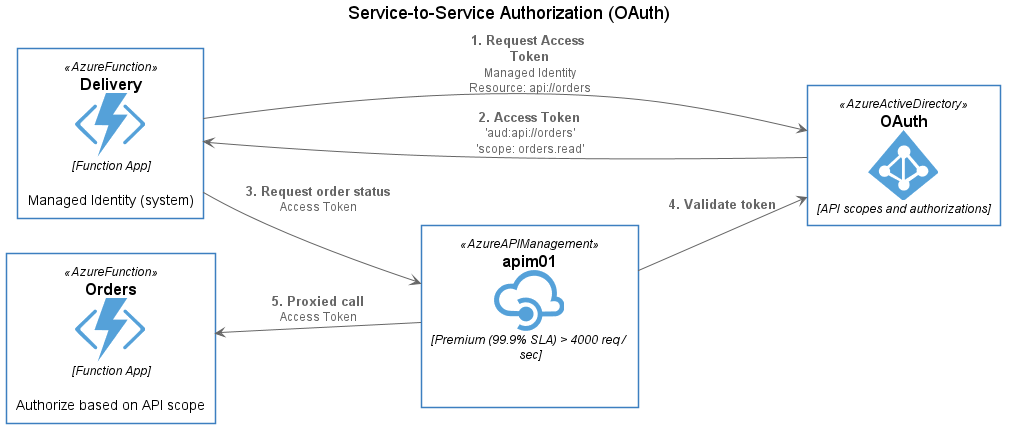
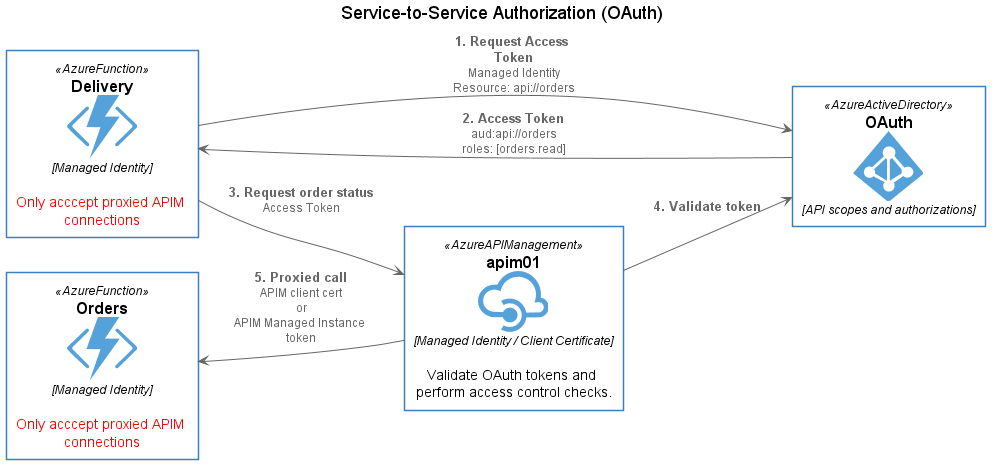
end-to-end testing complete

diff --git a/funcapp-delivery/delivery/index.ts b/funcapp-delivery/delivery/index.ts
@@ -1,41 +1,96 @@
 import { AzureFunction, Context, HttpRequest } from "@azure/functions"
 import * as msRestAzure from "ms-rest-azure"
+import * as request from "request"
+import { access } from "fs";
 
 const httpTrigger: AzureFunction = async function (context: Context, req: HttpRequest): Promise<void> {
     context.log('HTTP trigger function processed a request.');
-    const name = (req.query.name || (req.body && req.body.name));
 
-    if (name) {
-        context.res = {
-            // status: 200, /* Defaults to 200 */
-            body: "Hello " + (req.query.name || req.body.name)
-        };
+    const orders = req.query.orders;
+
+    if (orders) {
+        if (orders === "create" || orders === "get") {
+            let credentials = await getCredentials(process.env.TOKEN_AUDIENCE);
+            processOrders(orders, credentials);
+
+            context.res = {
+                // status: 200, /* Defaults to 200 */
+                body: "Executing action for 'orders': " + orders + ". Please check the logs."
+            };
+        }
+        else {
+            context.res = {
+                status: 400,
+                body: "Values to the 'orders' query string must be 'create' or 'get'"
+            };
+        }
     }
     else {
         context.res = {
             status: 400,
-            body: "Please pass a name on the query string or in the request body"
+            body: "Please pass 'oders=get|create' in the query string."
         };
     }
 
 };
 
-function getApiCredentials() {
+async function processOrders(action, credentials) {
 
-    let tokenAudience = process.env.TOKEN_AUDIENCE;
+    var requestMethod = "get";
+    if (action == "create") {
+        requestMethod = "POST";
+    }
+
+    credentials.getToken(function(err, tokenResponse) { 
+        
+        // *DEMO PURPOSES ONLY* NEVER EMIT AN ACCESSTOKEN IN A REAL ENVIRONMENT
+        console.warn("!!DEMO PURPOSES ONLY!! *NEVER* EMIT AN ACCESSTOKEN IN A REAL ENVIRONMENT");
+        console.info("Access token: " + tokenResponse.accessToken);
+
+        var options = {
+            method: requestMethod,
+            url: process.env.ORDER_API_URL,
+            headers: {
+                'Content-Type': 'application/json',
+                'Authorization': `bearer ${tokenResponse.accessToken}`,
+                'Ocp-Apim-Subscription-Key': '67f3d2869d7e49dcbfa803e84c19340f'
+            }
+        }
+
+        function callback(error, response, responseBody) {
+            if (!error && response.statusCode == 200) {
+                console.info("Response: " + responseBody);
+            }
+            if (response.statusCode == 401) {
+                console.warn("Response: " + responseBody);
+            }
+            if (error) {
+                console.error("Response: " + responseBody);
+            }
+        }
+    
+        request(options, callback);
+
+    });
+
+}
+
+async function getCredentials(audience) {
+
+    var accessToken;
 
     if (process.env.APPSETTING_WEBSITE_SITE_NAME){
-        return msRestAzure.loginWithAppServiceMSI({resource: tokenAudience, })
-      } else {
+        // Use Managed Identity
+        return msRestAzure.loginWithAppServiceMSI({resource: audience })
+    } else {
+        // Use test Service Principal
         let clientId = process.env.CLIENT_ID;
         let secret = process.env.CLIENT_SECRET;
-        let domain = process.env.CLIENT_DOMAIN;
-        return msRestAzure.loginWithServicePrincipalSecret(clientId, secret, domain, {tokenAudience: tokenAudience });
-      }
+        let domain = process.env.CLIENT_TENANT;
+        
+        return msRestAzure.loginWithServicePrincipalSecret(clientId, secret, domain, {tokenAudience: audience });        
+    }
+};
 
-
-
-    
-}
 
 export default httpTrigger;

diff --git a/docs/1-plat-configstds.md b/docs/1-plat-configstds.md
@@ -20,16 +20,93 @@ The following sample policies included in this repository.
 
 ## Deployment
 
-## Functions Premium
+Once configuration standards are defined
 
-Run the following command to deploy the sample Function Apps
+### Functions Premium
+
+Run the following command to deploy the Orders and Delivery sample Function Apps. Both Function Apps will be deployed to the same App Service Premium Plan called `funcdemo`.
 
 ```bash
 az login
-az group create -l centralus -n functest
-az group deployment create --resource-group functest --template-file scripts/functionapp.json
+az group create -l centralus -n functest1
+az group deployment create --resource-group functest1 --template-file deployments/functionapp.json --parameters '{ "appName": { "value": "trnielordersvc"} }'
+az group deployment create --resource-group functest1 --template-file deployments/functionapp.json --parameters '{ "appName": { "value": "deliverysvc"} }'
+
 ```
 
-## App Service Environment
+### App Service Environment (ASE)
 
-TBD
+Please see [these instructions](https://docs.microsoft.com/en-us/azure/app-service/environment/create-ilb-ase) for deploying an ILB ASE. Once the ASE is fully configured, use the following script to deploy the Orders and Delivery sample Function Apps.
+
+> SCRIPT TBD
+
+### Azure API Management
+
+Please see [this sample](https://github.com/Azure/azure-quickstart-templates/tree/master/101-azure-api-management-create) for deploying an APIM instance.
+
+> SCRIPT TBD
+
+Once APIM is deployed, import the sample client certificate provided in the `certs` folder. This can be done by navigating to the Azure Portal and selecting the **Certificates** section. Click **Add** and upload `client-cert.pfx`. The password for this file is: 3@6AagBD
+
+### Deploy code
+
+Use VS Code to publish each Function App in this repository to its respective instance in Azure.
+
+## Configuration
+
+### Add Mutual TLS Settings
+
+The certificate validation is perfomed in the nodejs code and with values provided as environment variables. In the Function App, create the following applicaiton settings. If you are using your own SSL certificate, be sure to replace the below values with yours.
+
+* CERT_ISSUER : `apimanagement`
+* CERT_SUBJECT : `apimanagement`
+* CERT_THUMBPRINT : `E6EAE966BE935167AF3E41273D1636C4DEAC4B90`
+* WEBSITE_NODE_DEFAULT_VERSION : `~12`
+* APIM_SUBSCRIPTION_KEY: `<subscription-key>`
+
+For local debugging, you will need to add the same entries to your `local.settings.json` file as shown in this example:
+
+```json
+{
+  "IsEncrypted": false,
+  "Values": {
+    "FUNCTIONS_WORKER_RUNTIME": "node",
+    "TOKEN_AUDIENCE": "api://svc-orders",
+    "CLIENT_ID": "<your-client-id>",
+    "CLIENT_SECRET": "<your-client-secret>",
+    "CLIENT_TENANT": "<your-tenant-id>",
+    "ORDER_API_URL": "https://trniel.azure-api.net/demo/orders",
+    "APIM_SUBSCRIPTION_KEY": "<your-apim-key>"
+  },
+  "ConnectionStrings": {}
+}
+```
+
+### Publish APIs
+
+With mTLS enabled witin App Service and middleware enabled to whiltelist only Azure API Management's client certificate, all traffic to and between microservices must flow though APIM. Therefore, each API must be published in APIM so that it can be accessed. APIM then applies various access control checks as discussed in the [Application Security](2-app-security-s2sauthz.md) guide.
+
+In the Azure Portal, navigate to the **APIs** section and then select **Add API**. In the **Add a new API** page, click **OpenAPI**. At the next screen, click the **Select a file** button on the right of the screen and select `swagger-spec.json` located in the `funcapp-orders` directory. For the Display name, enter `Orders`. For **API URL suffix**, enter `demo`.
+
+Next, the backend service needs to be defined. To do this, ensure the **All operations** section is highlighted and click the XML icon in the **Inbound processing** section of the API design page. On the next screen, replace the XML with the following:
+
+```xml
+<policies>
+    <inbound>
+        <base />
+        <set-backend-service base-url="https://<your-function-app>.azurewebsites.net/api" />
+        <authentication-certificate thumbprint="E6EAE966BE935167AF3E41273D1636C4DEAC4B90" />
+    </inbound>
+    <backend>
+        <base />
+    </backend>
+    <outbound>
+        <base />
+    </outbound>
+    <on-error>
+        <base />
+    </on-error>
+</policies>
+```
+
+Be sure to replace `<your-function-app>` with the actual name of the Orders Function App in your environment.

diff --git a/docs/2-app-security-s2sauthz.md b/docs/2-app-security-s2sauthz.md
@@ -28,6 +28,20 @@ az ad sp list --display-name <function-app-name> --query '[].{name:appDisplayNam
 
 Save the GUID for the entry that matches the name of your *delivery* Function App.
 
+### Create Service Principal for local testing
+
+Create a Service Principal if you need to test locally:
+
+```bash
+az ad sp create-for-rbac -n "delivery-testsp" --skip-assignment
+```
+
+Make sure you save the output information for future reference. Finally, run the following command to get the ObjectID of the test Service Principal:
+
+```bash
+az ad sp list --display-name 'delivery-testsp' --query '[].{name:appDisplayName,objectId:objectId}' -o tsv
+```
+
 ### Register API, define and assign permissions
 
 In order to establish OAuth-based API security services deployed to the **orders** Function App, it must be registered in Azure Active Directory as an application. To do so, use the following CLI command:
@@ -63,9 +77,49 @@ Finally, execute the following command to link the Managed Identity of the *deli
 New-AzureADServiceAppRoleAssignment -ObjectId <delivery-sp-objectid> -PrincipalId <delivery-sp-objectid> -Id <orders-approle-id> -ResourceId <orders-app-serviceprincipal-objectid>
 ```
 
-## Publish Orders API
+If with to assign permission to the API scope to a test service principal, execute the same command but with the Object ID of the test service principal 
 
-TBD
+## Add token validation and access control checks to API Management
+
+In API Management, navigate to the Orders API. Ensure the **getOrders** operation is highlighted and click the XML edit button to update the policy at **Inbound processing**. Add the following XML within the `<inbound>` element.
+
+```XML
+<inbound>
+  <base/>
+  <validate-jwt header-name="Authorization" failed-validation-httpcode="401" failed-validation-error-message="Unauthorized. Access token is missing or invalid.">
+      <openid-config url="https://sts.windows.net/<your-tenant-ID>/.well-known/openid-configuration" />
+      <required-claims>
+          <claim name="aud" match="all">
+              <value>api://svc-orders</value>
+          </claim>
+          <claim name="roles" match="any">
+              <value>Orders.Read</value>
+          </claim>
+      </required-claims>
+  </validate-jwt>
+</inbound>
+```
+
+Next, do the same for the **createOrder** operation and update the policies in the `<inbound>` section of the XML as follows.
+
+```XML
+<inbound>
+    <base />
+    <validate-jwt header-name="Authorization" failed-validation-httpcode="401" failed-validation-error-message="Unauthorized. Access token is missing or invalid.">
+        <openid-config url="https://sts.windows.net/<your-tenant-ID>/.well-known/openid-configuration" />
+        <required-claims>
+            <claim name="aud" match="all">
+                <value>api://svc-orders</value>
+            </claim>
+            <claim name="roles" match="any">
+                <value>Orders.Create</value>
+            </claim>
+        </required-claims>
+    </validate-jwt>
+</inbound>
+```
+
+Once implemented this way in APIM, only AAD-registered applications with valid access tokens that have a matching audience (aud) claim as well as the required application role can make the call.
 
 ## Testing
 
